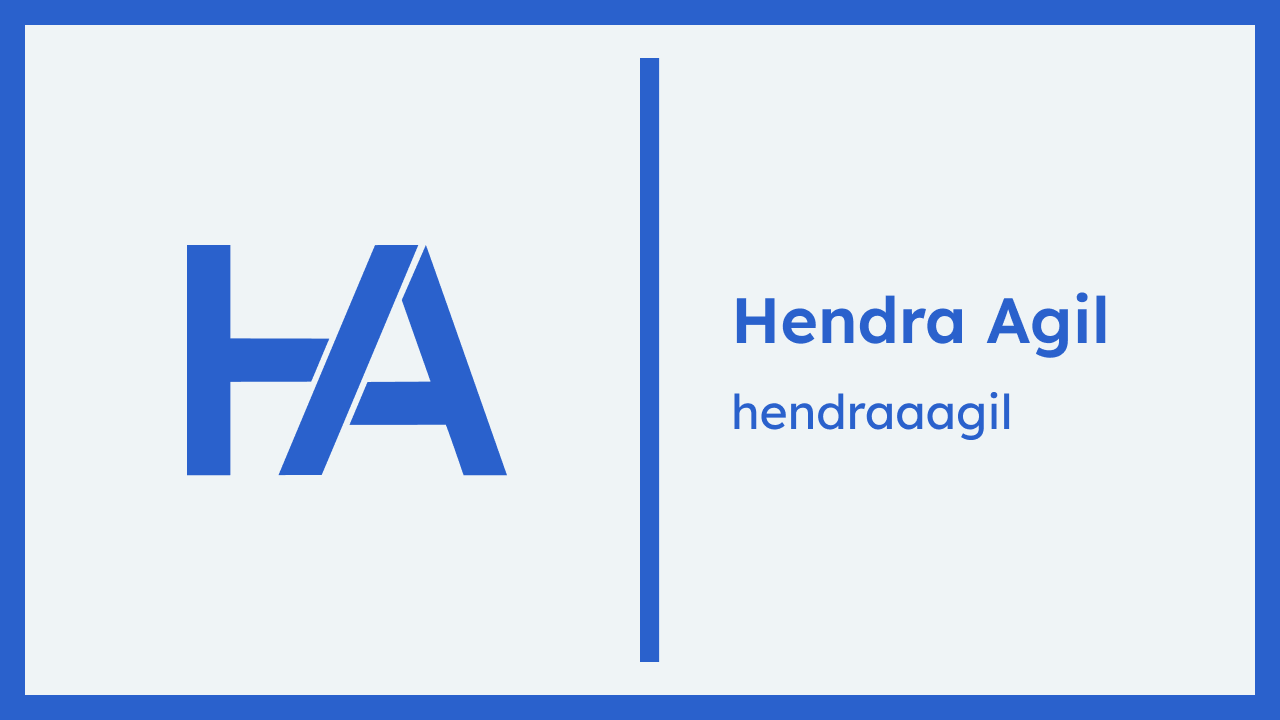
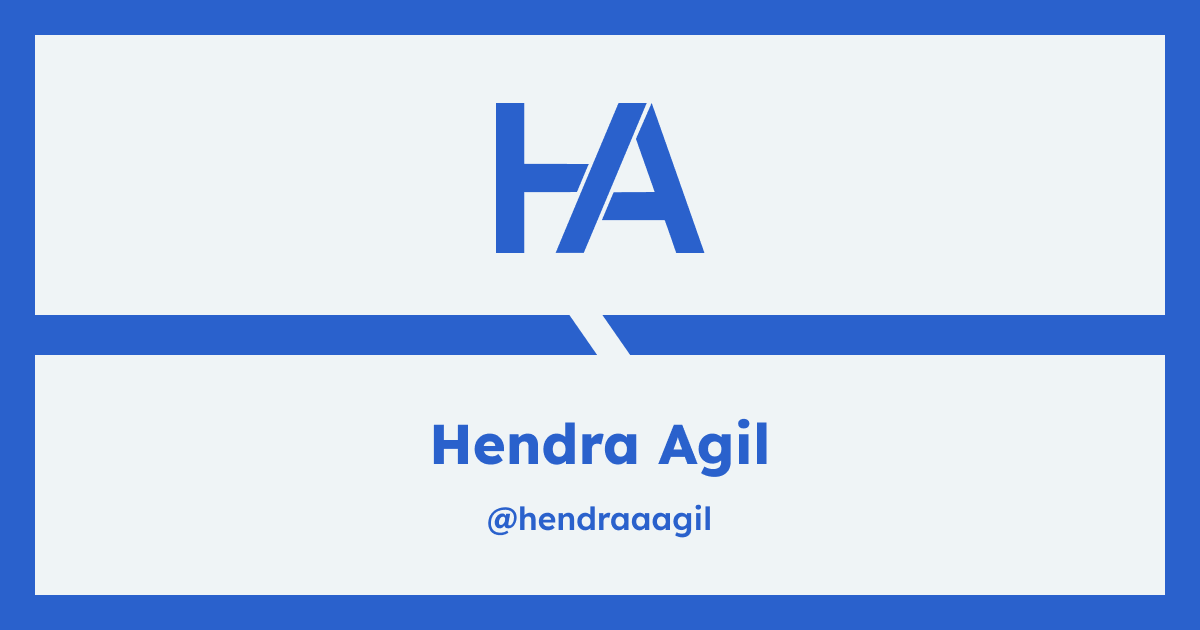
chore(v1): change open graph image (again)

Changed region(s): [[0.0, 0.0302, 0.9867, 0.9651]]

diff --git a/next-seo.config.js b/next-seo.config.js
@@ -18,8 +18,8 @@ const SEO = {
       {
         url: `${siteUrl}/og-image.png`,
         alt: title,
-        width: 1280,
-        height: 720,
+        width: 1200,
+        height: 630,
       },
     ],
   },
